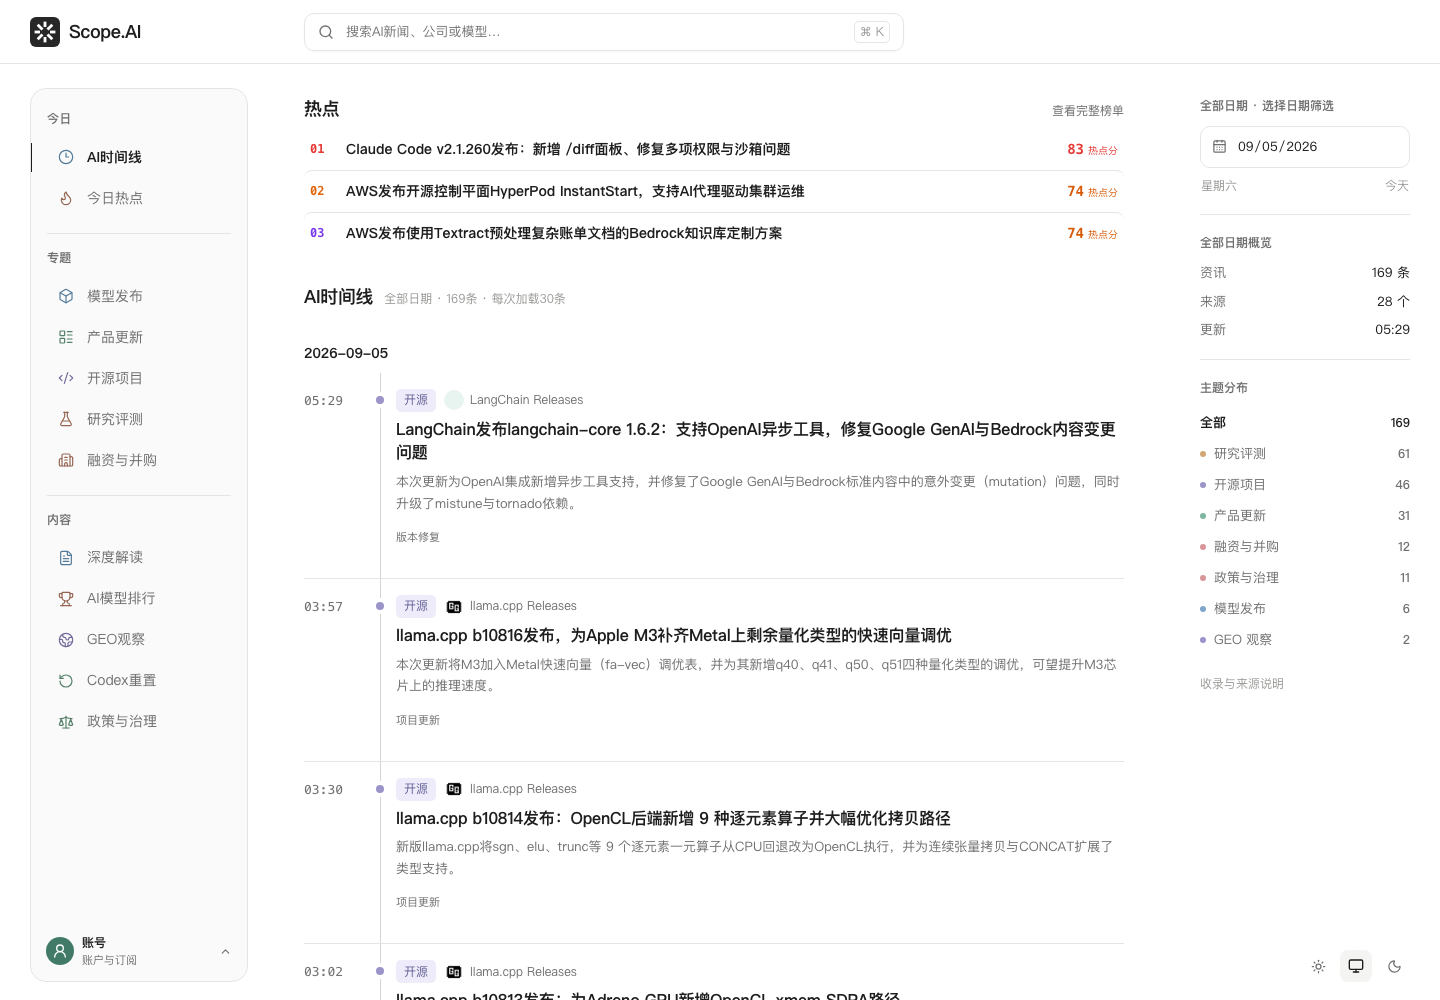
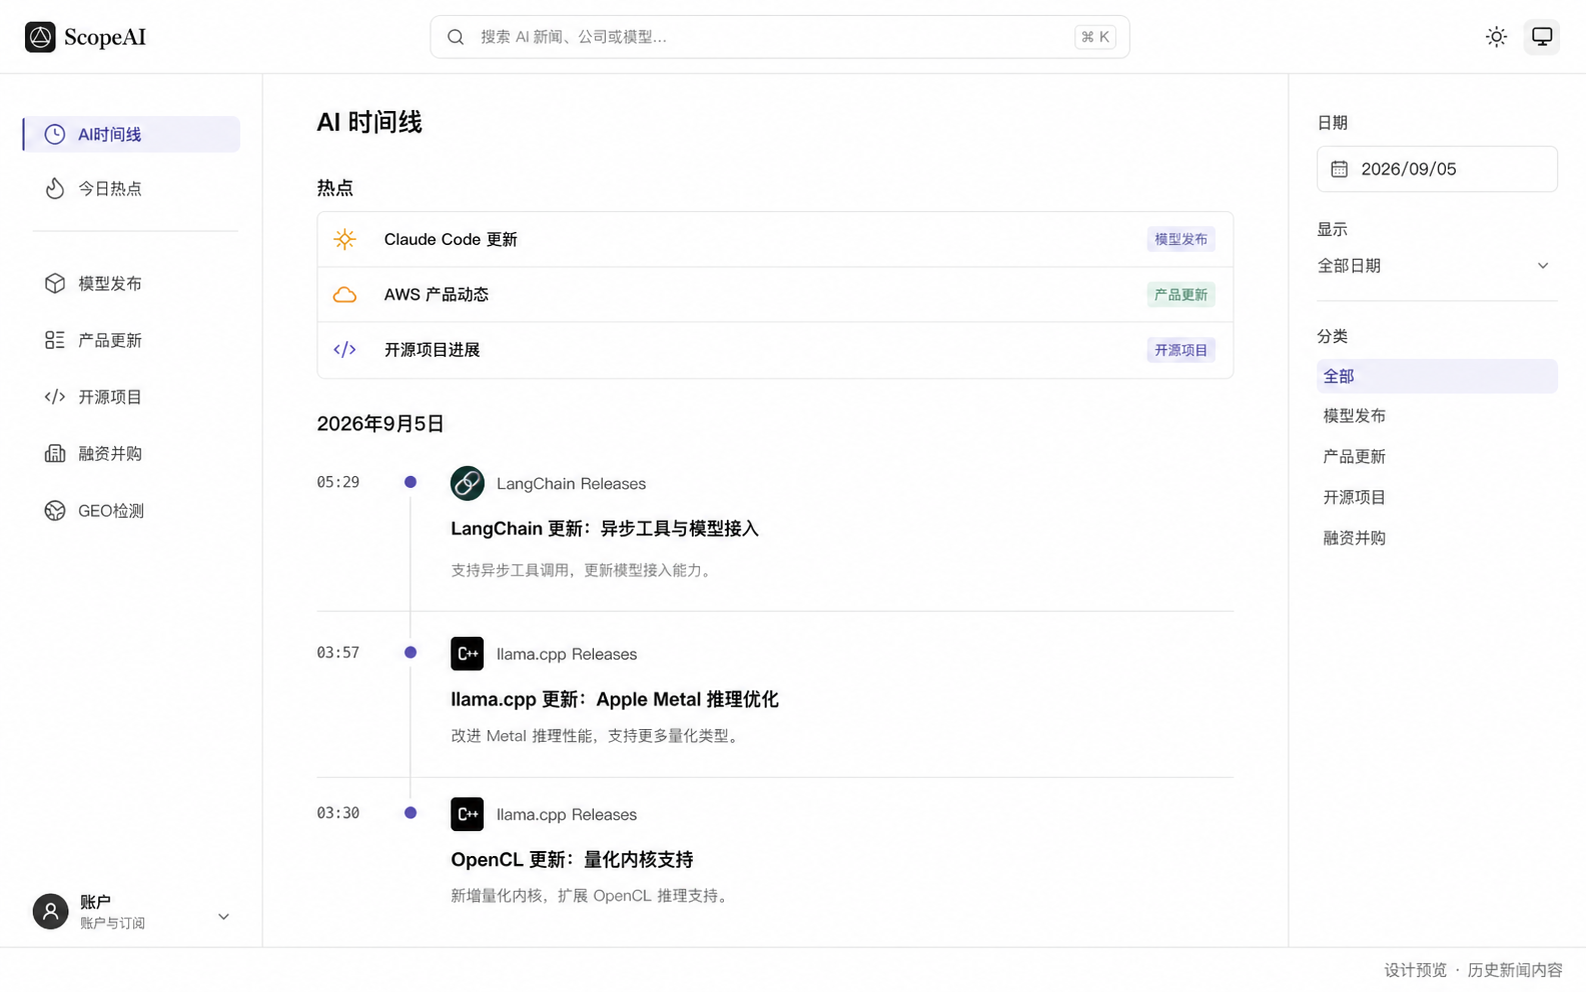
Present approved news and GEO interface previews with a compact README

diff --git a/scripts/check_public_repo.py b/scripts/check_public_repo.py
@@ -1,5 +1,6 @@
 """Offline checks only: never calls the paid API or reads runtime credentials."""
 from pathlib import Path
+from html.parser import HTMLParser
 import json
 import re
 
@@ -8,11 +9,23 @@ allowed = {"README.md", "README.en.md", ".gitignore", ".env.example", "openapi.j
  "docs/status.md", "docs/pricing.md", "docs/faq.md", "docs/use-cases.md", "docs/getting-started.md",
  "examples/python/quickstart.py", "examples/python/scope_client.py", "examples/typescript/scope-client.ts",
  ".github/ISSUE_TEMPLATE/bug_report.md", "scripts/check_public_repo.py", "docs/showcase.md",
- "assets/cover.png", "assets/news.png", "assets/lutule-geo.png"}
+ "assets/brand-dark.png", "assets/brand-light.png", "assets/news.png", "assets/lutule-geo.png"}
 files = [p for p in root.rglob("*") if p.is_file() and ".git" not in p.relative_to(root).parts and "__pycache__" not in p.relative_to(root).parts]
 actual = {str(p.relative_to(root)) for p in files}
 assert actual == allowed, f"Unexpected or missing public files: {actual ^ allowed}"
 secret = re.compile(r"(?:gh[pousr]_[A-Za-z0-9]{30,}|sk-[A-Za-z0-9]{24,}|-----BEGIN (?:RSA |EC |OPENSSH )?PRIVATE KEY-----)")
+class AssetLinks(HTMLParser):
+    def __init__(self):
+        super().__init__()
+        self.targets = []
+
+    def handle_starttag(self, tag, attrs):
+        for name, value in attrs:
+            if name in {"src", "href"} and value:
+                self.targets.append(value)
+            elif name == "srcset" and value:
+                self.targets.extend(item.strip().split()[0] for item in value.split(",") if item.strip())
+
 for path in files:
     if path.suffix == ".png":
         data = path.read_bytes()
@@ -25,7 +38,10 @@ for path in files:
     if path.suffix == ".py":
         compile(text, str(path), "exec")
     if path.suffix == ".md":
-        for target in re.findall(r"\[[^\]]*\]\(([^)]+)\)", text):
+        html = AssetLinks()
+        html.feed(text)
+        targets = re.findall(r"\[[^\]]*\]\(([^)]+)\)", text) + html.targets
+        for target in targets:
             if "://" in target or target.startswith("#"):
                 continue
             assert (path.parent / target.split("#")[0]).is_file(), f"Broken link: {target}"

diff --git a/README.md b/README.md
@@ -1,106 +1,57 @@
-<div align="center">
+<picture>
+  <source media="(prefers-color-scheme: dark)" srcset="assets/brand-light.png">
+  <img src="assets/brand-dark.png" alt="ScopeAI" width="140" height="36">
+</picture>
 
-![ScopeAI API：AI 新闻与 GEO 检测](assets/cover.png)
+# AI 新闻与 GEO 检测 API
 
-**把 AI 新闻接入你的产品，让品牌在 AI 回答中的表现有据可查。**
+给网站、App 和行业助手接入 AI 资讯，为品牌观察提供模型回答与原文证据。
 
-[申请 API 接入](https://camcat.net/developers) · [体验产品](https://camcat.net) · [价格与扣费](docs/pricing.md) · [English](README.en.md)
+[申请接入](https://camcat.net/developers) · [体验产品](https://camcat.net) · [接入文档](docs/getting-started.md) · [English](README.en.md)
 
-</div>
+> **接入预览**：付费 API 待生产开放。请先确认所需服务可用，再充值。[查看状态](docs/status.md)
 
-> **接入预览** · 托管服务采用账户充值、API key 授权和按量扣费。付费 API 待生产开放，请先确认服务可用，再充值。[开放状态](docs/status.md)
+## AI 新闻
 
-## 两项服务，接入你的业务
+读取本站公开新闻，支持列表、搜索、热门、专题、正文与来源，以及内容修改和撤回同步。适合资讯栏目、企业日报和主题追踪。
 
-| **01 / AI 新闻** | **02 / GEO 检测** |
-| :--- | :--- |
-| 给网站、App、行业助手接入 AI 资讯。 | 查看 AI 回答是否提到、推荐你的品牌。 |
-| 新闻列表、搜索、热门、专题、正文与来源。 | 品牌资料观察、指定模型回答采样与历史结果。 |
-| 用于资讯栏目、企业日报、主题追踪。 | 用于品牌诊断、客户报告、周期观察。 |
-| **¥0.01 / 非空成功请求**，一页最多 50 条。 | **¥1 / 成功回答采样单元**；资料观察另计。 |
+![AI 新闻界面设计预览](assets/news.png)
 
-以上为首版预览价格，实际开放范围与金额以服务端价目和报价为准。
+<sub>界面设计预览，新闻内容依据历史记录简化展示；非线上截图。</sub>
 
-## AI 新闻：你的产品，也能拥有资讯时间线
+## GEO 检测
 
-把本站公开新闻接入自己的界面，按日期、分类或关键词筛选，保留摘要与来源；还可以同步内容修改和撤回。
+查看指定模型的回答是否提到、推荐你的品牌。结合公开资料、原文证据和历史结果，为品牌诊断、客户报告与周期观察提供依据。
 
-[![ScopeAI 新闻产品截图：热点、资讯时间线、分类和来源](assets/news.png)](https://camcat.net)
+![路途乐 GEO 界面设计预览](assets/lutule-geo.png)
 
-<sub>新闻产品历史实景截图，画面日期为 2026-09-05。展示网站效果，不代表新闻 API 已正式开放。</sub>
+<sub>路途乐案例：界面为设计预览，数值来自 2026-09-07 已核验的单轮记录。11 道自然问题中，品牌被提及 2 次、明确推荐 2 次。单轮观察不代表稳定行业排名或品牌背书。[案例说明](docs/showcase.md)</sub>
 
-**可以这样用：** 给 AI 工具导航增加新闻栏目；每天生成企业 AI 日报；让行业助手按主题检索资讯。新闻 API 提供本站公开内容，具体字段见 [OpenAPI](openapi.json)。
+案例使用 DeepSeek 联网采样；首版 API 实际回答采样使用 **DeepSeek 模型 API，搜索关闭**，不等同于其网页 / App，不承诺复现案例分数。公开资料观察单独报价，不代表多平台实测。
 
-## GEO 检测：用户问 AI 时，你的品牌出现了吗？
+## 价格与接入
 
-围绕品牌所属品类观察模型回答，区分“提到品牌”和“明确推荐”，结合原文证据查看竞品差距。资料观察和模型实际回答采样是两种服务，分别报价。
+托管服务采用**账户充值、API key 授权、按量扣余额**。以下为首版预览价格，实际开放范围与金额以服务端价目和报价为准。
 
-### 路途乐案例 · 从回答中发现品牌可见度差距
+| 服务 | 价格 | 计费单位 |
+| --- | ---: | --- |
+| 新闻数据 | **¥0.01** | 非空成功请求；一页最多 50 条，正文详情另算一次 |
+| 公开资料观察 | **¥1.00** | 完整交付一轮 |
+| 模型回答采样 | **¥1.00** | 一道问题的一次成功采样 |
 
-![路途乐 GEO 案例：已核验的单轮检测结果可视化](assets/lutule-geo.png)
+GEO 先冻结最高费用，按成功交付结算，失败部分释放。成功回答未提到品牌仍正常计费；相同请求编号的合规重试不重复扣费。定时监测单独授权，按每轮服务结算并受月预算限制。[完整计费规则](docs/pricing.md)
 
-<sub>依据 2026-09-07 已核验记录制作的结果可视化，非产品界面截图。11 道自然问题使用 DeepSeek 联网采样；2 道点名问题不参与图中比较。单轮小样本不代表稳定行业排名、产品质量或市场份额，也不表示品牌背书。</sub>
+1. [创建账户](https://camcat.net/login?mode=register)，进入[开发者工作台](https://camcat.net/developers)。
+2. [联系客服](https://camcat.net/account/billing)确认开放状态并充值；当前由管理员核实收款后入账。
+3. 创建 API key，授予消费权限、设置预算，在自己的服务器调用。
+4. 查看结果、余额和消费流水；读取已购买结果不额外收费。
 
-这张图回答三个实际问题：**品牌有没有出现？AI 有没有明确推荐？同一批回答里，哪些竞品更常被提到？** 后续可在保持模型、问题与口径一致的条件下持续观察，并回到原始回答复核。
+## 开发者资料
 
-**可以这样用：** 品牌团队发现内容缺口；服务商为客户制作有原文依据的检测报告；SaaS 接入采样任务和历史结果，构建自己的品牌观察工具。[查看展示说明](docs/showcase.md) · [更多业务案例](docs/use-cases.md)
+[接入指南](docs/getting-started.md) · [OpenAPI 3.1](openapi.json) · [Python 示例](examples/python/quickstart.py) · [TypeScript 客户端](examples/typescript/scope-client.ts)
 
-> **案例与首版 API 的范围不同：** 上图是网站既有检测案例，使用联网采样。首版付费 API 的实际回答采样目标为 **DeepSeek 模型 API，搜索关闭**，不等同于其网页 / App，也不承诺复现上图分数。其他 AI 平台的实测能力以开放清单为准。
-
-## 如何接入，如何付费
-
-1. **创建账户**：在 [ScopeAI](https://camcat.net/login?mode=register) 注册，进入[开发者工作台](https://camcat.net/developers)。
-2. **确认开通并充值**：到[充值与账单](https://camcat.net/account/billing)页联系官方客服，确认所需服务开放后充值；当前由客服协助、管理员核实收款后入账。
-3. **创建 API key**：授予所需消费权限，设置账户和密钥预算，在自己的服务器调用。
-4. **按实际交付扣余额**：查看任务结果、可用余额及消费流水。
-
-| 服务 | 首版预览价格 | 如何结算 |
-| --- | --- | --- |
-| 新闻数据 | **¥0.01 / 非空成功请求** | 一页最多 50 条；正文详情另算一次 |
-| 公开资料观察 | **¥1.00 / 完整交付轮次** | 未达交付条件整轮不收费 |
-| DeepSeek 模型 API 回答采样 | **¥1.00 / 成功单元** | 单元 = 一道问题的一次采样 |
-| 定时监测 | 按每轮实际服务 | 单独授权，受月预算约束 |
-
-例如：读 100 条新闻摘要，分两页，共 **¥0.02**。采样 20 道问题，先冻结最高 **¥20**；18 次成功、2 次失败，扣 **¥18**、释放 **¥2**。成功回答即使未提到品牌也正常计费。
-
-扣的是**已充值的 ScopeAI 账户余额**。GEO 先冻结最高费用，再按成功交付结算；相同请求编号的合规重试不重复扣费。余额、报价、已购买结果与账单查询不额外收费。[完整计费规则](docs/pricing.md)
-
-## 开发者：一次新闻读取
-
-服务已开通且账户有余额时，下面的非空成功请求消费 **¥0.01**。密钥只放在你的服务器环境中。
-
-```bash
-export SCOPE_BASE_URL="https://camcat.net"
-# 用环境变量或密钥管理工具注入 SCOPE_API_KEY。
-# 为这次业务操作生成并保存 NEWS_REQUEST_KEY；网络重试复用它。
-
-curl "$SCOPE_BASE_URL/api/v1/news/articles?limit=50" \
-  -H "Authorization: Bearer $SCOPE_API_KEY" \
-  -H "Idempotency-Key: $NEWS_REQUEST_KEY" \
-  -H "X-Max-Charge-Cents: 1"
-```
-
-| 开始接入 | 了解服务 |
-| --- | --- |
-| [完整接入指南](docs/getting-started.md) | [价格与扣费](docs/pricing.md) |
-| [OpenAPI 3.1 接口契约](openapi.json) | [服务开放状态](docs/status.md) |
-| [Python 示例](examples/python/quickstart.py) | [常见问题](docs/faq.md) |
-| [TypeScript 客户端](examples/typescript/scope-client.ts) | [截图与案例说明](docs/showcase.md) |
-
-## 公开接入资料，核心服务由 ScopeAI 提供
-
-本仓库公开产品说明、展示图、接口契约和客户端示例。**新闻数据库、采集系统、GEO 分析引擎、计费后台与服务端源码保持私有。** 下载本仓库不能自行运行完整平台，也不会获得免费数据或模型额度。
-
-付费业务必须连接 ScopeAI 托管 API，并通过账户、服务开放状态、密钥权限、预算和余额校验。用户只能访问自己获授权的项目与购买结果。
+[业务案例](docs/use-cases.md) · [常见问题](docs/faq.md) · [开放公告](https://github.com/choolena5-cpu/scopeai-api/releases)
 
 ---
 
-<div align="center">
-
-**给产品接入 AI 新闻，为品牌建立 GEO 观察能力。**
-
-[申请接入](https://camcat.net/developers) · [联系客服与充值](https://camcat.net/account/billing) · [关注开放公告](https://github.com/choolena5-cpu/scopeai-api/releases)
-
-文档或示例问题可提交 Issue；账户信息、充值凭证与密钥请通过官方客服处理。
-
-</div>
+本仓库公开说明、效果图、接口契约与客户端示例。**新闻数据库、采集系统、GEO 分析引擎、计费后台和服务端源码保持私有。** 付费业务必须连接 ScopeAI 托管 API，通过账户、服务权限、预算和余额校验；下载仓库不会获得免费数据或模型额度。

diff --git a/README.en.md b/README.en.md
@@ -1,42 +1,57 @@
-![ScopeAI API — AI news and GEO detection](assets/cover.png)
+<picture>
+  <source media="(prefers-color-scheme: dark)" srcset="assets/brand-light.png">
+  <img src="assets/brand-dark.png" alt="ScopeAI" width="140" height="36">
+</picture>
 
-# AI news and GEO detection for your products
+# AI news and GEO detection API
 
-[中文](README.md) · [Request API access](https://camcat.net/developers) · [Explore ScopeAI](https://camcat.net)
+Connect AI news to your product and use model answers and source evidence for brand observation.
 
-**Integration preview.** The paid API is awaiting production activation. Confirm product availability before funding an account. See [service status](docs/status.md).
+[Request access](https://camcat.net/developers) · [Explore ScopeAI](https://camcat.net) · [Integration guide](docs/getting-started.md) · [中文](README.md)
+
+> **Integration preview:** paid API production activation is pending. Confirm availability before funding an account. [Service status](docs/status.md)
 
 ## AI news
 
-Build a news section, an internal AI digest or an industry assistant with public articles, summaries, categories and source links. Synchronize updates and withdrawals.
+Read public articles, summaries, categories and source links. Build news sections, internal digests and industry assistants; synchronize updates and withdrawals.
 
-![ScopeAI news interface, historical screenshot dated September 5, 2026](assets/news.png)
+![AI news interface design preview](assets/news.png)
 
-This is a historical product screenshot, not evidence that the paid API is already live.
+<sub>Generated interface design preview using simplified historical news content; not a live screenshot.</sub>
 
 ## GEO detection
 
-Observe whether model answers mention or explicitly recommend a brand. Use source evidence, model-answer sampling and historical results to build brand reports and monitoring tools.
+Observe whether specified model answers mention or recommend your brand. Build reports and periodic monitoring with public-source research, original answers and historical results.
 
-![Lutule brand visibility case, visualization of verified September 7, 2026 results](assets/lutule-geo.png)
+![Lutule GEO interface design preview](assets/lutule-geo.png)
 
-**Lutule case:** 2 mentions and 2 explicit recommendations across 11 natural questions; score 18.2/100. This visualization uses verified historical results; it is not a UI screenshot. It is a single small-sample observation, not a stable industry ranking or a measure of product quality or market share, and does not imply brand endorsement.
+<sub>The interface is a design preview; numbers come from verified September 7, 2026 records. Lutule received 2 mentions and 2 explicit recommendations across 11 natural questions. This single observation is not a stable industry ranking or brand endorsement. [Case details](docs/showcase.md)</sub>
 
-The historical website case used DeepSeek with web search enabled. The first paid API sampling target uses the **DeepSeek model API with search disabled**, not its consumer website or app. It does not promise to reproduce these scores. Public-source research is a separate service, not measured multi-platform visibility. See [visual provenance and scope](docs/showcase.md).
+The historical case used DeepSeek with web search enabled. The first API sampling target uses the **DeepSeek model API with search disabled**, not its consumer website or app, and does not promise to reproduce these scores. Public-source research is billed separately and is not measured multi-platform visibility.
 
-## Hosted and prepaid
+## Pricing and access
 
-| Service | Initial price preview |
-| --- | --- |
-| News | CNY 0.01 / nonempty successful request, up to 50 summaries; article detail billed separately |
-| Public-source research | CNY 1.00 / fully delivered run |
-| Model-answer sampling | CNY 1.00 / successful question × repetition unit |
-| Scheduled monitoring | Actual services delivered, with separate authorization and a monthly budget |
+Paid operations require an enabled product, prepaid account balance and an API key authorized to spend. Initial prices below are previews; final availability and quotes come from the service.
 
-Create an [account](https://camcat.net/login?mode=register), confirm availability with [support](https://camcat.net/account/billing), fund your balance, authorize an API key and set spending limits. Funding currently uses support-assisted confirmation. Final prices and availability come from the service.
+| Service | CNY | Unit |
+| --- | ---: | --- |
+| News | **0.01** | Nonempty successful request; up to 50 summaries, article details billed separately |
+| Public-source research | **1.00** | Fully delivered run |
+| Model-answer sampling | **1.00** | Successful question × repetition unit |
 
-GEO reserves the maximum quote, charges successful deliveries and releases failed portions. Valid retries using the same request key do not create duplicate charges. A valid answer that does not mention your brand is still billable. Read [billing rules](docs/pricing.md).
+GEO reserves the maximum quote, charges successful deliveries and releases failed portions. A valid answer without a brand mention is still billable. Valid retries with the same request key do not create duplicate charges. Scheduled monitoring requires separate authorization and a monthly budget. [Billing rules](docs/pricing.md)
 
-This repository publishes integration documentation, visuals and client examples. **The backend, data collection, news database, GEO analysis engine and billing implementation remain private.** Downloading the repository does not grant data access or model credits; paid operations require an enabled product, prepaid balance and an API key authorized to spend.
+1. [Create an account](https://camcat.net/login?mode=register) and visit the [developer portal](https://camcat.net/developers).
+2. Confirm availability with [support](https://camcat.net/account/billing), then fund your balance through the current support-assisted process.
+3. Create an API key, authorize spending, set budgets and call from your server.
+4. Check results, balance and transactions. Reading previously purchased results has no additional charge.
 
-[Quick start](docs/getting-started.md) · [OpenAPI](openapi.json) · [Python](examples/python/quickstart.py) · [TypeScript](examples/typescript/scope-client.ts) · [Request access](https://camcat.net/developers)
+## Developer resources
+
+[Integration guide](docs/getting-started.md) · [OpenAPI 3.1](openapi.json) · [Python](examples/python/quickstart.py) · [TypeScript](examples/typescript/scope-client.ts)
+
+[Use cases](docs/use-cases.md) · [FAQ](docs/faq.md) · [Releases](https://github.com/choolena5-cpu/scopeai-api/releases)
+
+---
+
+This repository publishes documentation, design previews, API contracts and client examples. **The news database, collection system, GEO analysis engine, billing implementation and backend source remain private.** Downloading the repository does not grant data access or model credits.

diff --git a/docs/showcase.md b/docs/showcase.md
@@ -2,19 +2,19 @@
 
 [返回产品首页](../README.md)
 
-## 新闻产品实景
+## 新闻界面设计预览
 
-![ScopeAI 新闻产品历史截图](../assets/news.png)
+![ScopeAI 新闻界面设计预览](../assets/news.png)
 
-图片来自已保存的 ScopeAI 新闻产品截图，画面日期为 2026-09-05。热点、时间线、来源和主题分类用于展示网站的资讯阅读体验。图片未改写新闻内容或统计数字；不含登录账户身份或密钥。它不是实时页面，也不表示首版付费新闻 API 已在生产开放。
+图片是按产品界面风格生成的设计预览，使用当前品牌标识作为参考。新闻主题与时间依据 2026-09-05 历史记录，标题、摘要和热点标签为展示需要进行了简化，图标属于效果示意。它不是线上截图，不作为完整新闻记录或真实交互验收依据，也不表示首版付费新闻 API 已在生产开放。
 
-接入者可以使用 API 返回的数据构建自己的界面。产品截图中的布局和所有网站功能，不等于一项 API 的返回内容；具体以 [OpenAPI](../openapi.json) 和 [开放清单](status.md) 为准。
+接入者可以使用 API 返回的数据构建自己的界面。预览中的布局与操作项，不等于一项 API 的返回内容或已开放功能；具体以 [OpenAPI](../openapi.json) 和 [开放清单](status.md) 为准。
 
 ## 路途乐 GEO 案例
 
-![路途乐 GEO 已核验结果可视化](../assets/lutule-geo.png)
+![路途乐 GEO 界面设计预览](../assets/lutule-geo.png)
 
-这是一张根据既有检测记录重新排版的结果图，**不是网页截图，不是模拟检测数据**。案例不表示被观察品牌对 ScopeAI 的认可或背书。
+这是一张生成的界面设计预览，**界面不是线上截图，表格数值来自已核验的检测记录**。画面中的导航、下载和证据查看控件是设计展示，不构成已开放功能的证明。案例不表示被观察品牌对 ScopeAI 的认可或背书。
 
 | 项目 | 本案例范围 |
 | --- | --- |
